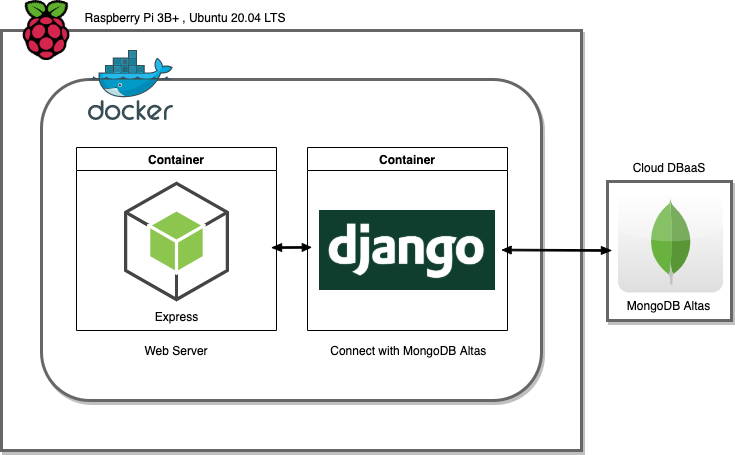
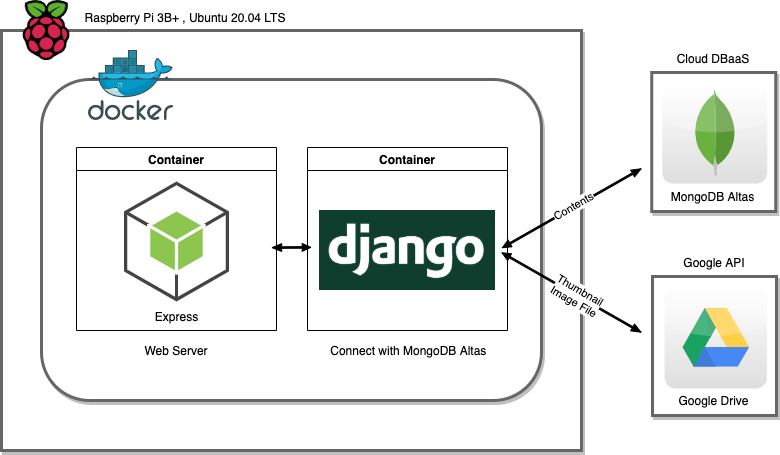
[Ref] change architecture image

diff --git a/README.md b/README.md
@@ -7,6 +7,7 @@ Portfolio 용 웹 페이지.
 
 ## Architecture
 
-Docker, Express.js, Django, MongoDB Altas사용.
+* Raspberry Pi 3B+, Ubuntu 20.04 LTS
+* Docker, Express.js, Django, MongoDB Altas, Google Drive API.
 
 ![arch](img/architecture.png)
